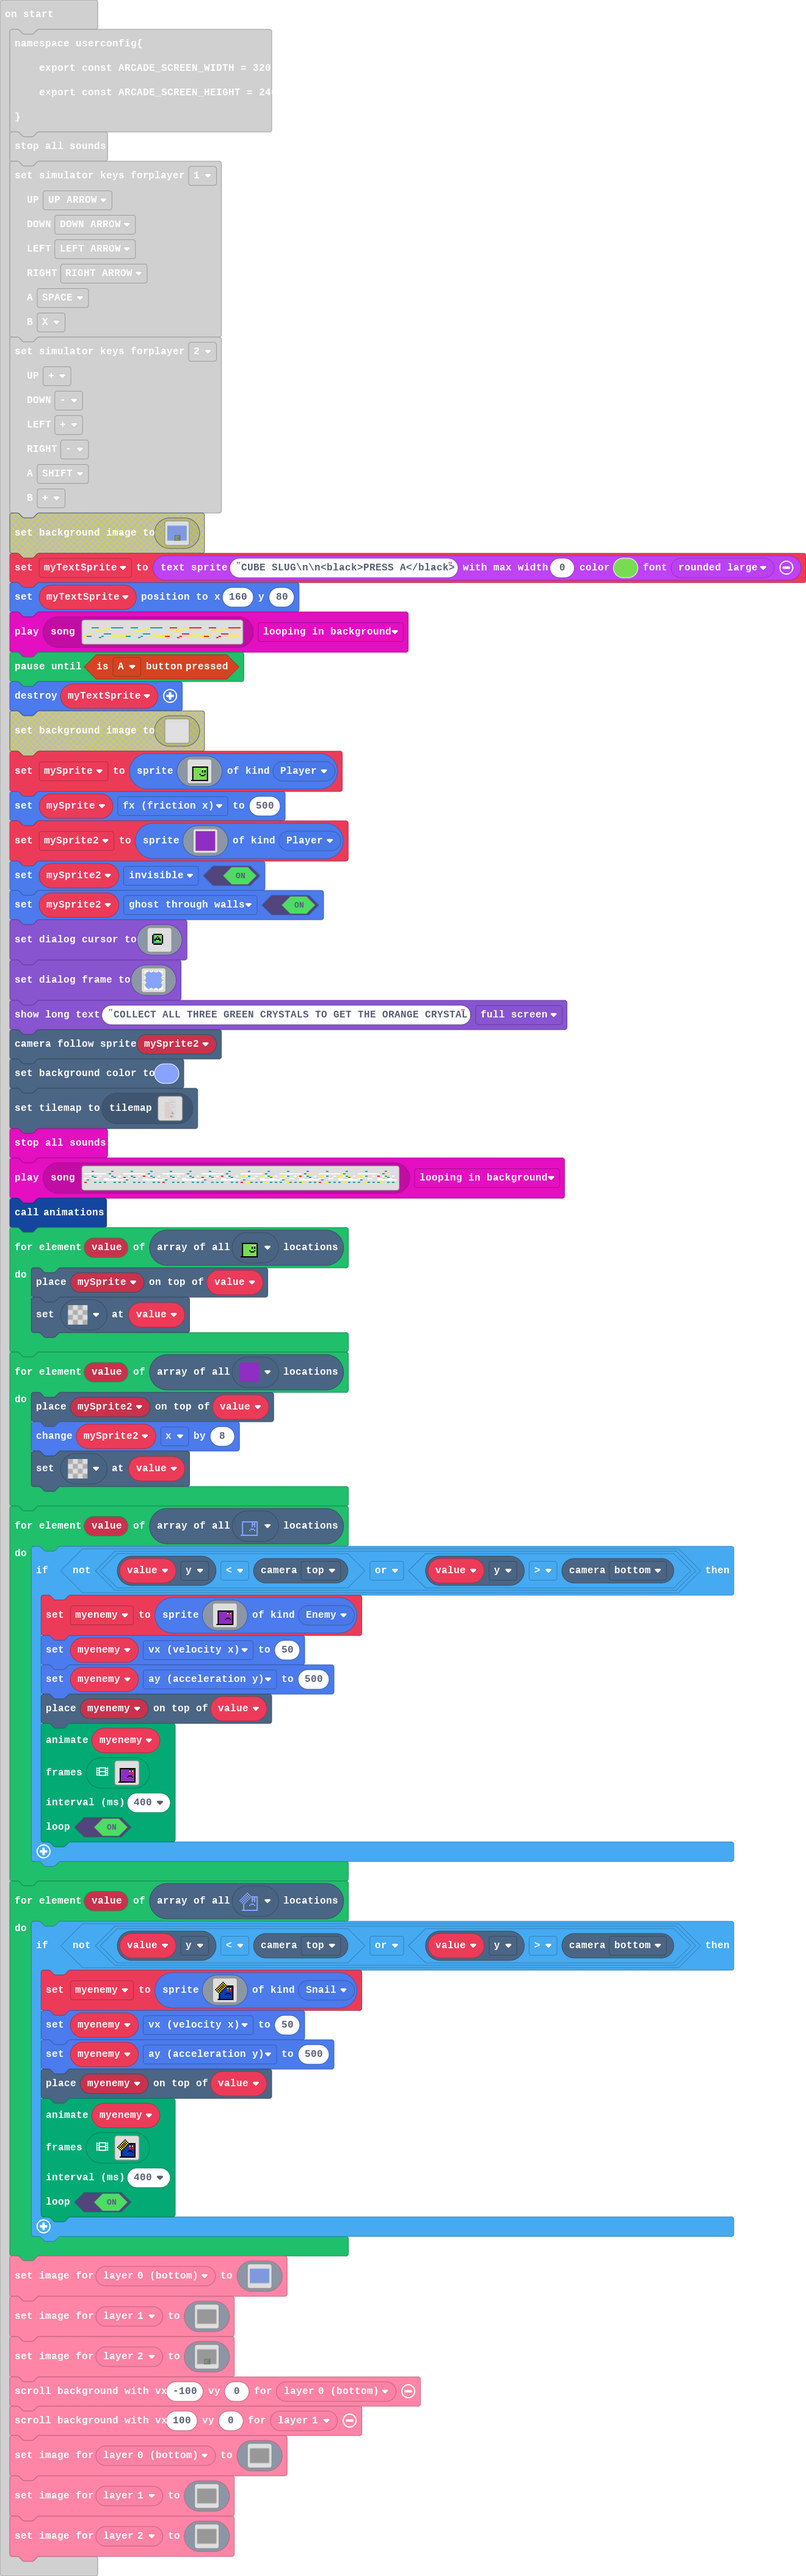
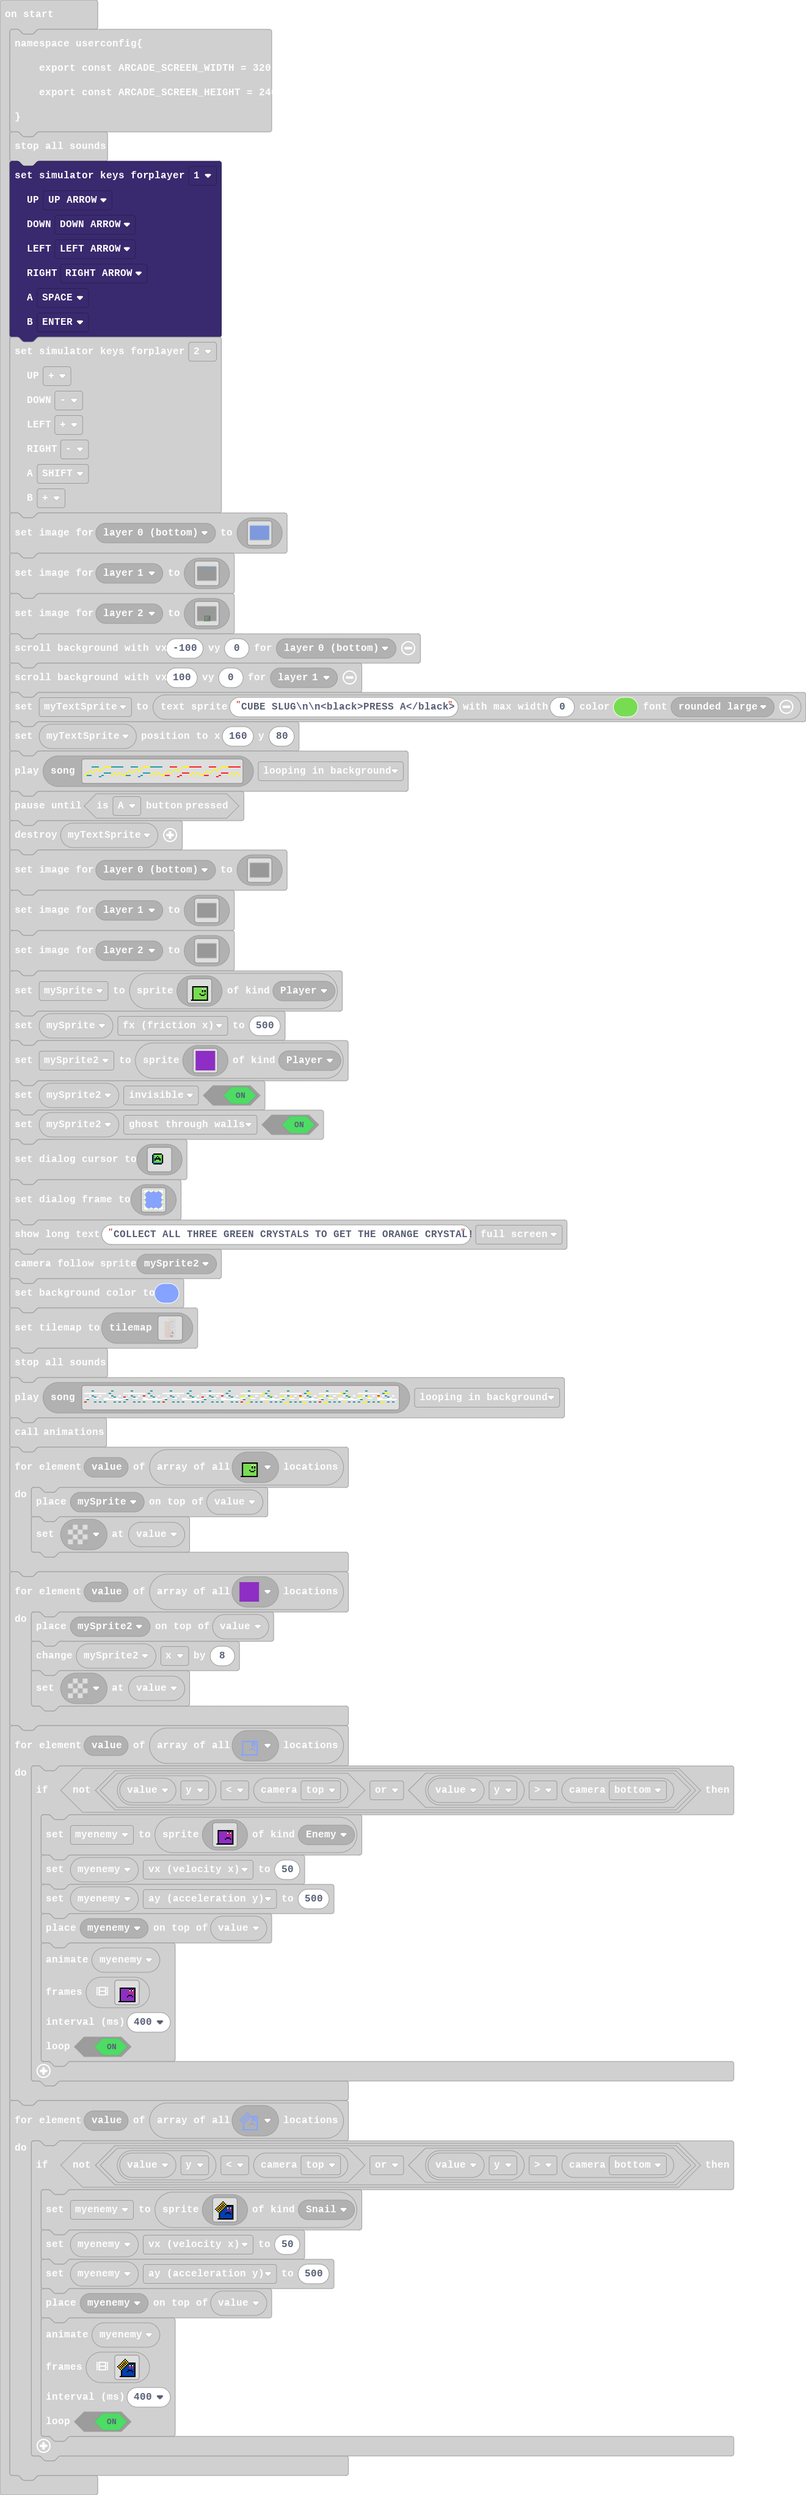
Update main.blocks, main.ts, tilemap.g.jres, tilemap.g.ts

diff --git a/tilemap.g.ts b/tilemap.g.ts
@@ -226,6 +226,44 @@ namespace myTiles {
 . . . . . . . . . . . . . . . . 
 . . . . . . . . . . . . . . . . 
 `, [myTiles.transparency16], TileScale.Sixteen);
+            case "level5":
+            case "level5":return tiles.createTilemap(hex`1000100000000000000000000000000000000000000000000000000000000000000000000000000000000000000000000000000000000000000000000000000000000000000000000000000000000000000000000000000000000000000000000000000000000000000000000000000000000000000000000000000000000000000000000000000000000000000000000000000000000000000000000000000000000000000000000000000000000000000000000000000000000000000000000000000000000000000000000000000000000000000000000000000000000000000000000000000000000000000000000000000000000000000000000000000000000000`, img`
+. . . . . . . . . . . . . . . . 
+. . . . . . . . . . . . . . . . 
+. . . . . . . . . . . . . . . . 
+. . . . . . . . . . . . . . . . 
+. . . . . . . . . . . . . . . . 
+. . . . . . . . . . . . . . . . 
+. . . . . . . . . . . . . . . . 
+. . . . . . . . . . . . . . . . 
+. . . . . . . . . . . . . . . . 
+. . . . . . . . . . . . . . . . 
+. . . . . . . . . . . . . . . . 
+. . . . . . . . . . . . . . . . 
+. . . . . . . . . . . . . . . . 
+. . . . . . . . . . . . . . . . 
+. . . . . . . . . . . . . . . . 
+. . . . . . . . . . . . . . . . 
+`, [myTiles.transparency16], TileScale.Sixteen);
+            case "level6":
+            case "level6":return tiles.createTilemap(hex`1000100000000000000000000000000000000000000000000000000000000000000000000000000000000000000000000000000000000000000000000000000000000000000000000000000000000000000000000000000000000000000000000000000000000000000000000000000000000000000000000000000000000000000000000000000000000000000000000000000000000000000000000000000000000000000000000000000000000000000000000000000000000000000000000000000000000000000000000000000000000000000000000000000000000000000000000000000000000000000000000000000000000000000000000000000000000000`, img`
+. . . . . . . . . . . . . . . . 
+. . . . . . . . . . . . . . . . 
+. . . . . . . . . . . . . . . . 
+. . . . . . . . . . . . . . . . 
+. . . . . . . . . . . . . . . . 
+. . . . . . . . . . . . . . . . 
+. . . . . . . . . . . . . . . . 
+. . . . . . . . . . . . . . . . 
+. . . . . . . . . . . . . . . . 
+. . . . . . . . . . . . . . . . 
+. . . . . . . . . . . . . . . . 
+. . . . . . . . . . . . . . . . 
+. . . . . . . . . . . . . . . . 
+. . . . . . . . . . . . . . . . 
+. . . . . . . . . . . . . . . . 
+. . . . . . . . . . . . . . . . 
+`, [myTiles.transparency16], TileScale.Sixteen);
         }
         return null;
     })

diff --git a/main.ts b/main.ts
@@ -1653,7 +1653,7 @@ Keybinds.CustomKey.DOWN,
 Keybinds.CustomKey.LEFT,
 Keybinds.CustomKey.RIGHT,
 Keybinds.CustomKey.SPACE,
-Keybinds.CustomKey.X
+Keybinds.CustomKey.ENTER
 )
 Keybinds.setSimulatorKeymap(
 Keybinds.PlayerNumber.TWO,
